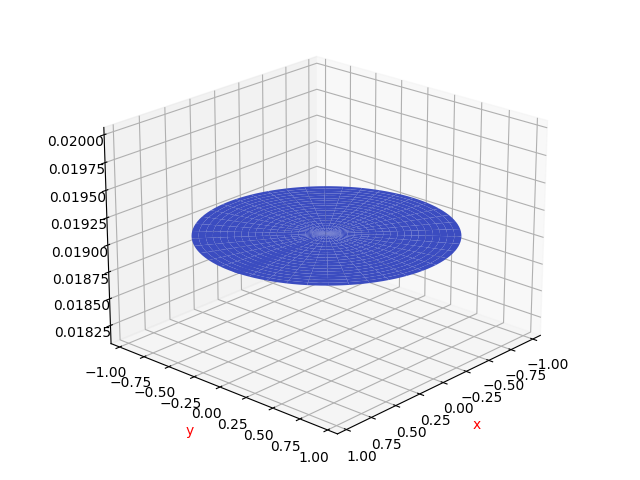
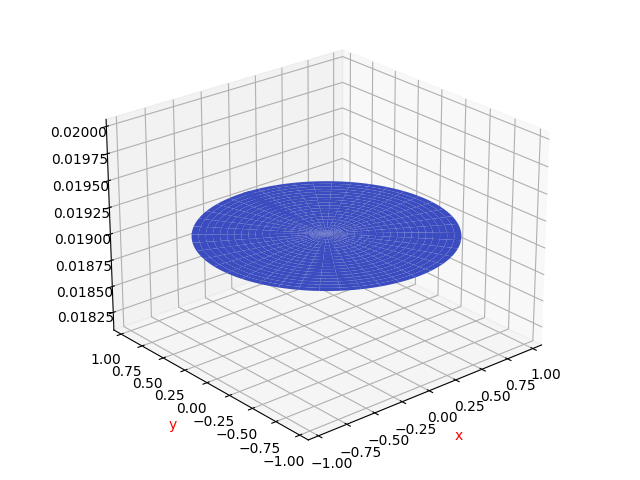
Meilleure surface

Changed region(s): [[0.0625, 0.125, 0.9062, 0.9688]]

diff --git a/Polynomes et Zernike/Projection sur Zernike plusieurs ordres.py b/Polynomes et Zernike/Projection sur Zernike plusieurs ordres.py
@@ -15,7 +15,7 @@ for i in  range (6):
 
     z1=interpole2v(lx,ly,plan_z1)
     projection_zernike = []
-    for n in range(i):
+    for n in range(i+1):
         pr = []
         for m in range(-n,n+1,2):
             Zernike_xy(0,0,m,n) #Calcul du polynômes Z(n,m)
@@ -25,7 +25,7 @@ for i in  range (6):
 
     def resultat(x,y):
         res = 0
-        for n in range(i):
+        for n in range(i+1):
             k = 0
             for m in range(-n,n+1,2):
                 Zernike_xy.n, Zernike_xy.m = n,m
@@ -40,7 +40,7 @@ for i in  range (6):
     R,P = np.meshgrid(R, Phi)
     X , Y = R*np.cos(P) , R*np.sin(P)
     Z = resultat(X,Y)
-    ax.plot_surface(X, Y, Z, cmap=cm.coolwarm)
+    ax.plot_surface(Y, X, Z, cmap=cm.coolwarm)
     plt.xlabel('x', color = 'red')
     plt.ylabel('y', color = 'red')
     plt.show()
